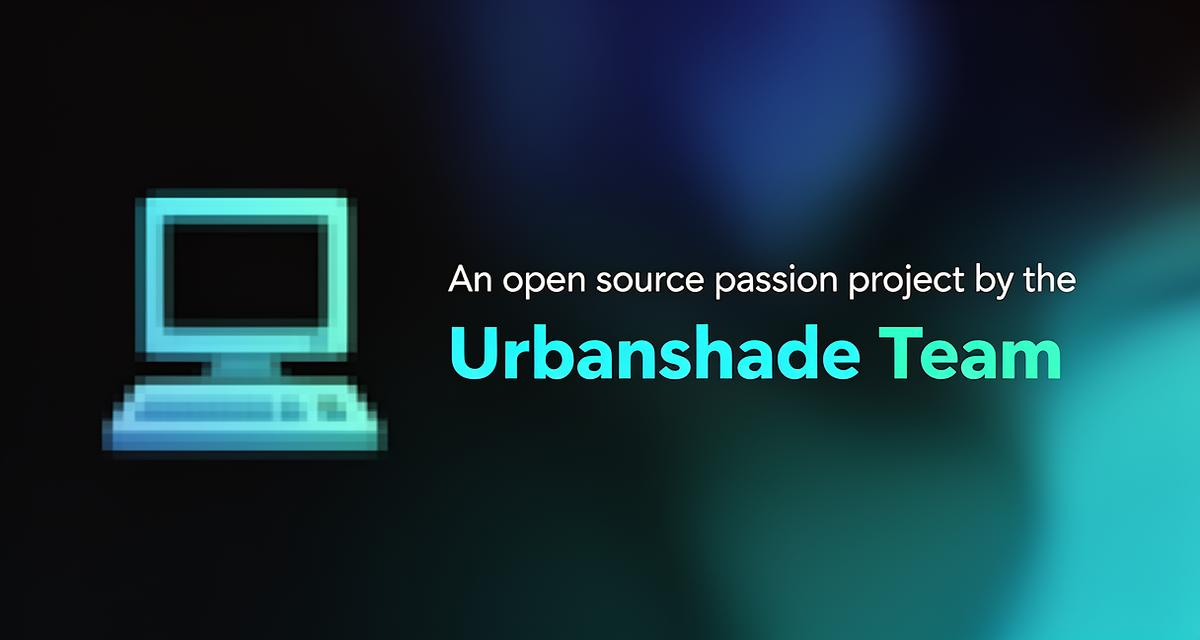
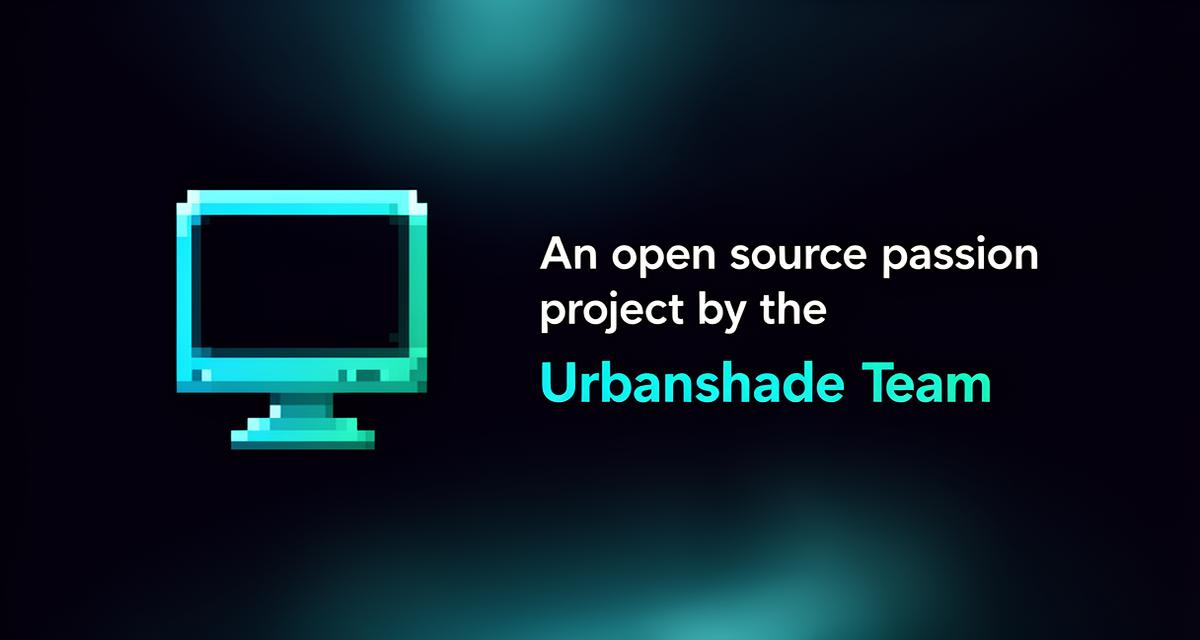
Changes

diff --git a/index.html b/index.html
@@ -23,12 +23,24 @@
     <link rel="preconnect" href="https://fonts.gstatic.com" crossorigin />
     <link href="https://fonts.googleapis.com/css2?family=JetBrains+Mono:wght@300;400;600;700&display=swap" rel="stylesheet" />
     
+    <!-- Anniversary Detection Script (Jan 24-30 week around Jan 27 anniversary) -->
+    <script>
+      (function() {
+        var now = new Date();
+        var month = now.getMonth(); // 0 = January
+        var day = now.getDate();
+        var isAnniversaryWeek = month === 0 && day >= 24 && day <= 30;
+        var ogImage = isAnniversaryWeek ? 'og-image-anniversary.png' : 'og-image.png';
+        document.write('<meta property="og:image" content="https://urbanshade.lovable.app/' + ogImage + '" />');
+        document.write('<meta name="twitter:image" content="https://urbanshade.lovable.app/' + ogImage + '" />');
+      })();
+    </script>
+    
     <!-- Open Graph / Facebook -->
     <meta property="og:type" content="website" />
     <meta property="og:url" content="https://urbanshade.lovable.app/" />
     <meta property="og:title" content="Urbanshade OS — Browser-Based Operating System Simulation" />
     <meta property="og:description" content="A free browser-based operating system simulation with desktop environment, terminal, apps, and developer tools. A passion project by the Urbanshade Team." />
-    <meta property="og:image" content="https://urbanshade.lovable.app/og-image.png" />
     <meta property="og:image:width" content="1200" />
     <meta property="og:image:height" content="630" />
     <meta property="og:site_name" content="Urbanshade OS" />
@@ -39,7 +51,6 @@
     <meta name="twitter:url" content="https://urbanshade.lovable.app/" />
     <meta name="twitter:title" content="Urbanshade OS — Browser-Based Operating System Simulation" />
     <meta name="twitter:description" content="A free browser-based operating system simulation with desktop environment, terminal, apps, and developer tools. A passion project by the Urbanshade Team." />
-    <meta name="twitter:image" content="https://urbanshade.lovable.app/og-image.png" />
     
     <!-- LLM/AI Summary Reference -->
     <link rel="alternate" type="text/plain" href="/llms.txt" title="LLM Summary" />
